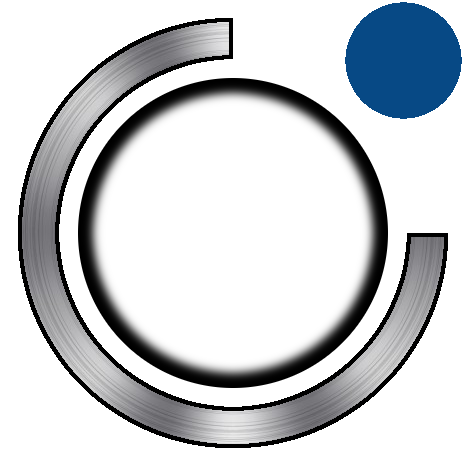
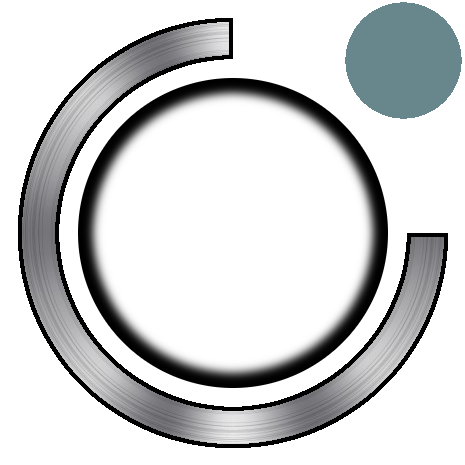
Update view and add alert

Changed region(s): [[0.7226, 0.0, 0.9935, 0.271]]

diff --git a/FridgeManager/src/view/Frame.java b/FridgeManager/src/view/Frame.java
@@ -72,6 +72,7 @@ public class Frame extends JFrame
 	    
 	    measures_sizer.setPreferredSize(new Dimension((int) (getWidth() * (3.0/10.0)), getHeight()));
 
+	    fridge_sizer.setBackground(new Color(104, 135, 140));
 	    fridge_sizer.setPreferredSize(new Dimension((int) (getWidth() * (3.0/10.0)), getHeight()));
 
 	    graphs_sizer.setPreferredSize(new Dimension((int) (getWidth() * (2.0/5.0)), getHeight()));
@@ -85,6 +86,7 @@ public class Frame extends JFrame
 	    // Building fridge sizers.
 	    fridge_image_sizer.setPreferredSize(new Dimension((int) fridge_sizer.getPreferredSize().getWidth(), (int) (fridge_sizer.getPreferredSize().getHeight() * (3.0/5.0))));
 	    
+	    state_sizer.setBackground(new Color(104, 135, 140));
 	    state_sizer.setPreferredSize(new Dimension((int) fridge_sizer.getPreferredSize().getWidth(), (int) (fridge_sizer.getPreferredSize().getHeight() * (2.0/5.0))));
 	    
 	    // Building value panels.
@@ -109,6 +111,7 @@ public class Frame extends JFrame
 	    // Building state sizers.
 	    alerts_sizer.setPreferredSize(new Dimension((int) state_sizer.getPreferredSize().getWidth(), (int) (state_sizer.getPreferredSize().getHeight() * (3.0/5.0))));
 	    
+	    switch_sizer.setBackground(new Color(104, 135, 140));
 	    switch_sizer.setPreferredSize(new Dimension((int) state_sizer.getPreferredSize().getWidth(), (int) (state_sizer.getPreferredSize().getHeight() * (2.0/5.0))));
 	    
 	    // Building alerts panel.
@@ -151,7 +154,7 @@ public class Frame extends JFrame
 	    values_sizer.add(fridge_humidity_panel);
 	    
 	    setpoint_slider_sizer.setLayout(null);
-	    setpoint_slider_sizer.setBorder(BorderFactory.createMatteBorder(0, 5, 0, 5, Color.black));
+	    setpoint_slider_sizer.setBorder(BorderFactory.createMatteBorder(5, 5, 5, 5, Color.black));
 	    setpoint_slider_sizer.add(setpoint_slider);
 	    
 	    fridge_image_sizer.setLayout(new BorderLayout());

diff --git a/FridgeManager/src/view/AlertsPanel.java b/FridgeManager/src/view/AlertsPanel.java
@@ -1,5 +1,7 @@
 package view;
 
+import java.awt.Color;
+import java.awt.Font;
 import java.awt.GridLayout;
 import java.util.HashMap;
 import java.util.Map;
@@ -20,6 +22,16 @@ public class AlertsPanel extends JPanel
 	{
 		super();
 		
+		setBackground(new Color(104, 135, 140));
+		top_alert.setHorizontalAlignment(JLabel.CENTER);
+		bot_alert.setHorizontalAlignment(JLabel.CENTER);
+		
+		top_alert.setFont(new Font("Calibri", Font.BOLD, 35));
+		bot_alert.setFont(new Font("Calibri", Font.BOLD, 55));
+		
+		top_alert.setForeground(Color.red);
+		bot_alert.setForeground(Color.red);
+		
 		setLayout(new GridLayout(2, 1));
 		add(top_alert);
 		add(bot_alert);
@@ -33,12 +45,12 @@ public class AlertsPanel extends JPanel
 			
 			if (index == 1)
 			{
-				top_alert.setText("Alerte: La porte est ouverte");
+				top_alert.setText("DOOR OPEN");
 				map.put("door", 1);
 			}
 			else
 			{
-				bot_alert.setText("Alerte: La porte est ouverte");
+				bot_alert.setText("DOOR OPEN");
 				map.put("door", 2);
 			}
 		}

diff --git a/FridgeManager/src/view/components/FridgeImage.java b/FridgeManager/src/view/components/FridgeImage.java
@@ -1,5 +1,6 @@
 package view.components;
 
+import java.awt.Color;
 import java.awt.Graphics;
 import java.awt.Image;
 import java.io.File;
@@ -33,6 +34,8 @@ public class FridgeImage extends JPanel
 	@Override
 	protected void paintComponent(Graphics g)
 	{
+		g.setColor(new Color(104, 135, 140));
+		g.fillRect(0, 0, getWidth(), getHeight());
 		if(state)g.drawImage(fridgeON, (int) ((getWidth() - getHeight() * (4.0/5.0) * (3.0/5.0)) / 2.0), (int) ((getHeight() - getHeight() * (4.0/5.0)) / 2.0), (int) (getHeight() * (4.0/5.0) * (3.0/5.0)), (int) (getHeight() * (4.0/5.0)), this);
 		else g.drawImage(fridgeOFF, (int) ((getWidth() - getHeight() * (4.0/5.0) * (3.0/5.0)) / 2.0), (int) ((getHeight() - getHeight() * (4.0/5.0)) / 2.0), (int) (getHeight() * (4.0/5.0) * (3.0/5.0)), (int) (getHeight() * (4.0/5.0)), this);
 	}

diff --git a/FridgeManager/src/view/components/ValuesPanel.java b/FridgeManager/src/view/components/ValuesPanel.java
@@ -17,13 +17,9 @@ public class ValuesPanel extends JPanel{
 	private int a;
 	private int b;
 	private int circleHeight = 5;
-	private Color circle = new Color(7,73,133);
-	private Color circle2 =  new Color(7,73,133);
+	private Color circle =new Color(104, 135, 140);
+	private Color circle2 =new Color(104, 135, 140);
 	
-	
-	public ValuesPanel(){
-		
-	}
 	
 	public void paintComponent(Graphics g1){
 		

diff --git a/FridgeManager/src/model/Regulation.java b/FridgeManager/src/model/Regulation.java
@@ -34,6 +34,8 @@ public class Regulation extends Thread{
 					}
 				}
 				else arduino.turnOffPeltier();
+				
+				myView.tell_condensation_risk_alert(true);
 				Regulation.sleep(2000);
 			}
 		} catch (InterruptedException e) {
